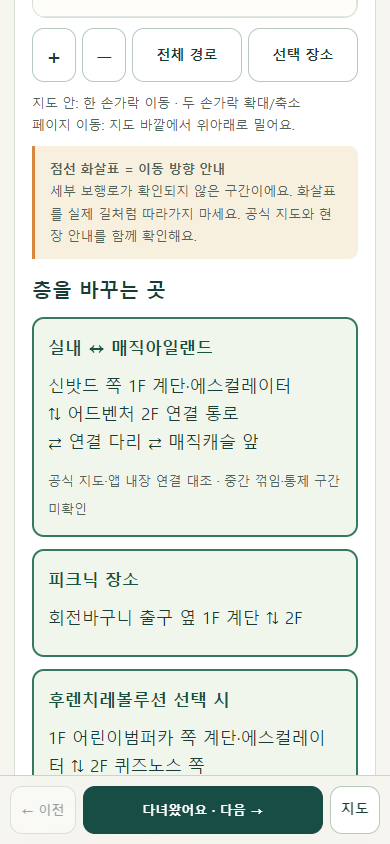
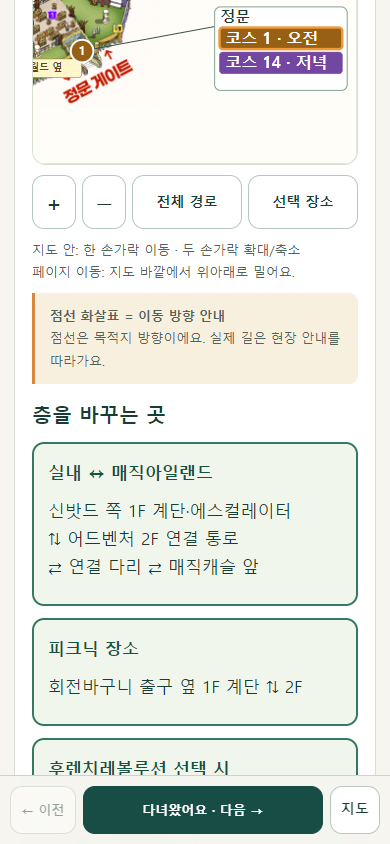
Add fullscreen map with close button and simplify visitor guidance

diff --git a/index.html b/index.html
@@ -8,7 +8,7 @@
 <section class="current panel" aria-label="현재 단계"><div class="section-top"><h2>지금 여기!</h2><span id="progress"></span></div><div id="current"></div><div class="next" id="next"></div><a class="button primary" href="#map" id="show-current">현재 단계 지도 보기 ↗</a></section>
 <p class="small notice">10시 개장을 가정한 <strong>권장 시간대</strong>예요. 예약 시간이 아니에요. 정문(B1) 출발을 가정했어요. 다른 입구라면 직원에게 첫 목적지를 물어봐요.</p>
 <section id="map" class="panel"><div class="section-top"><h2>우리의 코스 지도</h2><span class="tag">공식 지도 기반</span></div><p><strong>첨부 가이드맵 위에서 따라가기</strong></p><p class="small">배경은 공식 가이드맵이에요. 큰 색상 원과 ‘코스’ 버튼은 우리 번호예요. 원본의 작은 시설 번호와 달라요. 확대해서 확인해요.</p><div class="filters" id="periods" aria-label="시간대 선택"></div><label for="floor">구역 / 층 선택</label><select id="floor"><option value="all">전체 코스</option><option value="B1">실내 B1 · 정문</option><option value="1F">실내 1F</option><option value="2F">실내 2F</option><option value="3F">실내 3F</option><option value="4F">실내 4F</option><option value="M">실외 · 매직아일랜드</option></select>
-<div class="legend"><span class="morning">● 오전</span><span class="afternoon">● 오후</span><span class="evening">● 저녁</span></div><div id="map-route" class="notice small" aria-live="polite"></div><div class="map-wrap" id="map-wrap"><svg id="route-map" role="group" aria-label="코스 번호를 눌러 장소를 확인하는 안내도" viewBox="0 0 640 840"></svg></div><div class="map-controls"><button id="zoom-in" aria-label="지도 확대">＋</button><button id="zoom-out" aria-label="지도 축소">−</button><button id="fit">전체 경로</button><button id="focus">선택 장소</button></div><p class="small">지도 안: 한 손가락 이동 · 두 손가락 확대/축소<br>페이지 이동: 지도 바깥에서 위아래로 밀어요.</p><div class="notice small"><strong>점선 화살표 = 이동 방향 안내</strong><br>세부 보행로가 확인되지 않은 구간이에요. 화살표를 실제 길처럼 따라가지 마세요. 공식 지도와 현장 안내를 함께 확인해요.</div><h3>층을 바꾸는 곳</h3><div class="transfer"><strong>실내 ↔ 매직아일랜드</strong><p>신밧드 쪽 1F 계단·에스컬레이터<br>⇅ 어드벤처 2F 연결 통로<br>⇄ 연결 다리 ⇄ 매직캐슬 앞</p><span class="small">공식 지도·앱 내장 연결 대조 · 중간 꺾임·통제 구간 미확인</span></div><div class="transfer"><strong>피크닉 장소</strong><p>회전바구니 출구 옆 1F 계단 ⇅ 2F</p></div><div class="transfer"><strong>후렌치레볼루션 선택 시</strong><p>1F 어린이범퍼카 쪽 계단·에스컬레이터 ⇅ 2F 퀴즈노스 쪽</p><span class="small">앱 내장 연결 + 최신 지도 대조. 진입길·현재 통행은 직원에게 확인해요.</span></div><h3>동선 근처 화장실</h3><p class="small">WC · B1 정문 근처 잇츠월드 옆<br>WC · 1F 회전바구니·피크닉 계단 근처<br>WC · 1F 만남의 광장 안쪽</p><p class="small">시설 위치는 공식 지도 아이콘 확인. 개방 상태는 현장에서 확인해요.</p><div id="map-detail" aria-live="polite"></div><p class="small">경로 덧그림은 축척 없는 동선 안내도이며 길의 꺾임을 재현하지 않아요. 시설 대표 위치와 실제 입구는 다를 수 있어요.</p><a class="button" id="official-map" target="_blank" rel="noopener">공식 가이드맵 열기 ↗</a></section>
+<div class="legend"><span class="morning">● 오전</span><span class="afternoon">● 오후</span><span class="evening">● 저녁</span></div><div id="map-route" class="notice small" aria-live="polite"></div><div class="map-wrap" id="map-wrap"><svg id="route-map" role="group" aria-label="코스 번호를 눌러 장소를 확인하는 안내도" viewBox="0 0 640 840"></svg></div><div class="map-controls"><button id="zoom-in" aria-label="지도 확대">＋</button><button id="zoom-out" aria-label="지도 축소">−</button><button id="fit">전체 경로</button><button id="focus">선택 장소</button></div><p class="small">지도 안: 한 손가락 이동 · 두 손가락 확대/축소<br>페이지 이동: 지도 바깥에서 위아래로 밀어요.</p><div class="notice small"><strong>점선 화살표 = 이동 방향 안내</strong><br>점선은 목적지 방향이에요. 실제 길은 현장 안내를 따라가요.</div><h3>층을 바꾸는 곳</h3><div class="transfer"><strong>실내 ↔ 매직아일랜드</strong><p>신밧드 쪽 1F 계단·에스컬레이터<br>⇅ 어드벤처 2F 연결 통로<br>⇄ 연결 다리 ⇄ 매직캐슬 앞</p></div><div class="transfer"><strong>피크닉 장소</strong><p>회전바구니 출구 옆 1F 계단 ⇅ 2F</p></div><div class="transfer"><strong>후렌치레볼루션 선택 시</strong><p>1F 어린이범퍼카 쪽 계단·에스컬레이터 ⇅ 2F 퀴즈노스 쪽</p></div><h3>동선 근처 화장실</h3><p class="small">WC · B1 정문 근처 잇츠월드 옆<br>WC · 1F 회전바구니·피크닉 계단 근처<br>WC · 1F 만남의 광장 안쪽</p><div id="map-detail" aria-live="polite"></div><p class="small">축척 없는 동선 안내도 · 핀은 시설 위치예요.</p><a class="button" id="official-map" target="_blank" rel="noopener">공식 가이드맵 열기 ↗</a></section>
 <section id="schedule"><div class="section-top"><h2>하루를 한 걸음씩</h2><span class="tag">큰 번호 순서로</span></div><p class="small">필수는 밥·휴식·함께 귀가! 놀이기구는 모두 선택이에요. 인기 기구는 한 개만 타도 좋아요.</p><div class="panel alternatives"><h3>상황에 맞게 바꾸기</h3><label class="check"><input id="indoor" type="checkbox"> 비·추위 → 실내 코스로 바꾸기</label><p class="small">야외 일정이 실내 사진·휴식으로 바뀌고 지도와 다음 이동도 함께 바뀌어요.</p><p>대기 60분 이상 → 해당 카드에서 사진·휴식을 선택해요.</p><p>무서운 기구가 어렵다면 → 함께 쉬거나 순한 대안을 골라요. 혼자 남지 않아요.</p></div><div id="cards"></div></section>
 <section id="ready" class="panel"><h2>출발 전 체크</h2><div class="packing"><label><input type="checkbox"> 작은 가방</label><label><input type="checkbox"> 물</label><label><input type="checkbox"> 보조배터리</label><label><input type="checkbox"> 편한 운동화</label><label><input type="checkbox"> 겉옷</label></div><h3>우리 넷의 약속</h3><p>이동 전에는 네 명 모두 있는지 확인해요. 길이 헷갈리면 멈추고 직원에게 물어봐요.</p><p id="meeting"></p><p>흩어지면 혼자 찾으러 다니지 말고 가까운 직원에게 도움을 요청해요.</p><h3>당일 꼭 확인</h3><div id="official-links" class="link-list"></div><p class="small">키·나이·건강 상태 등 모든 탑승 조건은 공식 상세 안내와 현장 직원에게 확인해요. 이 사이트에는 실시간 대기시간이 없어요.</p><h3>저장과 오프라인</h3><p class="small">현재 단계·완료·코스 선택은 이 기기에 저장돼요. 친구들과 자동 동기화되지 않아요. 개인정보는 입력하거나 전송하지 않아요.</p><p id="offline-status" class="small" role="status">오프라인 준비 중…</p><p class="small">최신 운영시간·운휴·공연은 온라인 공식 사이트에서 확인해야 해요.</p><button id="reset">처음부터 다시 보기</button><div id="reset-confirm" hidden><p>완료 표시와 선택 코스를 모두 지울까요?</p><button id="reset-yes">네, 초기화</button> <button id="reset-no">취소</button></div></section>
 <footer><strong>즐거운 하루, 함께 돌아오기.</strong><p>공식 자료 확인: 2026.10.27<br>지도 © 롯데월드 · 제공받은 재게시 허가에 따라 사용.</p><a href="./research.md">지도 출처·확인 범위</a> · <a href="https://github.com/leegunsoodev/lotteworld-day-guide">GitHub</a></footer></main><nav class="bottom" aria-label="단계 이동"><button id="prev">← 이전</button><button id="next-step" class="primary">다녀왔어요 · 다음 →</button><a href="#map">지도</a></nav><div id="toast" role="status" aria-live="polite"></div></body></html>

diff --git a/app.js b/app.js
@@ -1,3 +1,4 @@
+import {setupMapFullscreen} from './fullscreen.js';
 import {initialState,restore,advance,previous,choose} from './state.js';
 import {steps,places,resolve,directions,links} from './data.js';
 import {RouteMap} from './map.js';
@@ -10,7 +11,7 @@ const escape=s=>String(s).replace(/[&<>"']/g,c=>({'&':'&amp;','<':'&lt;','>':'&g
 function save(){try{localStorage.setItem(KEY,JSON.stringify(state));}catch{toast('저장 공간을 사용할 수 없어요. 이 화면에서만 유지돼요.');}}
 function toast(t){$('toast').textContent=t;clearTimeout(toast.timer);toast.timer=setTimeout(()=>$('toast').textContent='',3500);}
 function title(s,i){return `<div class="step-title"><span class="num">${i+1}</span><div><h3>${escape(s.place.name)}</h3><div class="meta">${label(s.period)} · ${s.place.floor==='M'?'실외 · 매직아일랜드':`실내 · ${s.place.floor}`} · ${s.required?'필수 일정':'선택 코스'}</div></div></div>`;}
-function details(s){return `<p>${escape(s.place.note)}</p>${s.place.limit?`<p class="small">공식 지도 키 기준: ${s.place.limit}. 그 외 탑승 제한도 <a href="${links.rides}" target="_blank" rel="noopener">공식 상세</a>와 현장에서 확인해요.</p>`:''}${s.id==='parade'?`<div class="notice"><strong>관람 전 집결: 1F 가든스테이지 주변</strong><p>가든스테이지는 위치 확인용 랜드마크예요. 확정 관람석이 아니에요. 직원이 안내하는 관람선 밖에서 기다려요.</p><p class="small">확인된 공연 구역: 어드벤처 1F 퍼레이드 코스. 세부 진행 방향과 관람 자리는 미확인. 방문 당일 재확인!</p><a href="${links.shows}" target="_blank" rel="noopener">오늘 공연 시간 확인 ↗</a><p class="small">2026.10.27 확인: <a href="https://adventure.lotteworld.com/enjoy/performance/detail?srchPlySeq=1328" target="_blank" rel="noopener">월드 오브 라이트</a> 게시 기간 2026.08.31~11.15. 방문일의 공연명·시간은 달라질 수 있어요.</p></div>`:''}`;}
+function details(s){return `<p>${escape(s.place.note)}</p>${s.place.limit?`<p class="small">공식 지도 키 기준: ${s.place.limit}. 그 외 탑승 제한도 <a href="${links.rides}" target="_blank" rel="noopener">공식 상세</a>와 현장에서 확인해요.</p>`:''}${s.id==='parade'?`<div class="notice"><strong>관람 전 집결: 1F 가든스테이지 주변</strong><p>가든스테이지는 위치 확인용 랜드마크예요. 확정 관람석이 아니에요. 직원이 안내하는 관람선 밖에서 기다려요.</p><p class="small">어드벤처 1F에서 관람해요. 오늘 관람 자리는 직원에게 물어봐요.</p><a href="${links.shows}" target="_blank" rel="noopener">오늘 공연 시간 확인 ↗</a></div>`:''}`;}
 function render(){const list=resolve(state),s=list[state.current];$('progress').textContent=`${state.done.length}/${steps.length} 완료`;$('current').innerHTML=title(s,state.current)+`<p class="meta">${s.time}</p>`;$('next').innerHTML=`<strong>다음에 갈 곳 · ${list[state.current+1]?.place.name||'함께 귀가 완료'}</strong><p class="small">${directions(s.place,list[state.current+1]?.place)}</p>`;
  $('cards').innerHTML=list.map((s,i)=>`<article class="panel route-card ${s.period}-card ${i===selected?'selected':''}" id="step-${i+1}"><button class="card-select" data-select="${i}" aria-label="코스 ${i+1} ${s.place.name} 지도에서 보기">${title(s,i)}<p class="meta">${s.time}</p></button>${state.done.includes(i)?'<p class="done">✓ 다녀왔어요</p>':''}${details(s)}${s.options.length>1?`<label class="choice" for="choice-${i}">${i===10?'취소·미운영이면 대체하기':'대기·취향에 맞춰 고르기'}</label><select id="choice-${i}" data-choice="${i}" ${state.indoor&&s.indoor?'disabled':''}>${(state.indoor&&s.indoor?[s.indoor]:s.options).map(id=>`<option value="${id}" ${s.id===id?'selected':''}>${places[id].name}${['meeting','castle'].includes(id)?' · 사진/휴식':''}</option>`).join('')}</select>`:''}<p class="small"><strong>다음 이동 →</strong> ${directions(s.place,list[i+1]?.place)}</p><button data-current="${i}">${state.current===i?'지금 단계예요':'여기를 현재 단계로'}</button></article>`).join('');
  $('cards').querySelectorAll('[data-select]').forEach(b=>b.onclick=()=>select(+b.dataset.select,true));$('cards').querySelectorAll('[data-current]').forEach(b=>b.onclick=()=>{state.current=+b.dataset.current;selected=state.current;floor=resolve(state)[selected].place.floor;save();render();$('current').scrollIntoView({block:'center'});});$('cards').querySelectorAll('[data-choice]').forEach(c=>c.onchange=()=>{const i=+c.dataset.choice;state=choose(state,i,c.value);selected=i;period='all';floor=resolve(state)[i].place.floor;save();render();toast('선택 코스와 다음 이동을 바꿨어요.');});
@@ -25,5 +26,6 @@ $('reset').onclick=()=>$('reset-confirm').hidden=false;$('reset-no').onclick=()=
 $('official-map').href=links.map;$('meeting').textContent='추천 만남 장소: 어드벤처 1F 만남의 광장. 보호자가 입장하는 경우에 적합해요. 미입장 보호자는 정문 바깥 지점을 따로 정해요. 보호자와 정확한 위치·시간을 미리 정하고, 당일 통제 시 대체 만남 장소도 합의해요.';
 $('official-links').innerHTML=[[links.map,'공식 가이드맵'],[links.hours,'운영시간 · 당일 확인'],[links.closed,'운휴 시설 · 당일 확인'],[links.shows,'공연 일정 · 야간 퍼레이드 확인'],[links.rides,'놀이기구 · 탑승 제한']].map(([url,name])=>`<a href="${url}" target="_blank" rel="noopener">${name} ↗</a>`).join('');
 render();
+setupMapFullscreen(()=>{const v=map.view;const cy=v.y+v.h/2;v.h=v.w*map.svg.clientHeight/Math.max(1,map.svg.clientWidth);v.y=cy-v.h/2;map.apply();});
 const hash=location.hash.match(/^#step-(\d+)$/);if(hash){const i=+hash[1]-1;if(i>=0&&i<steps.length){selected=i;render();requestAnimationFrame(()=>$(`step-${i+1}`).scrollIntoView());}}
 if('serviceWorker' in navigator){navigator.serviceWorker.register('./sw.js').then(()=>navigator.serviceWorker.ready).then(()=>{$('offline-status').textContent='일정·안내도 오프라인 준비 완료. 이 주소를 다시 열어 볼 수 있어요. 브라우저 저장소가 삭제되면 재접속이 필요해요.';}).catch(()=>$('offline-status').textContent='이 브라우저에서는 오프라인 저장을 하지 못했어요. 온라인으로 이용해요.');}else $('offline-status').textContent='이 브라우저에서는 오프라인 저장을 지원하지 않아요.';

diff --git a/map.js b/map.js
@@ -10,7 +10,7 @@ export class RouteMap {
  this.svg.replaceChildren();this.points.clear();const defs=this.el('defs',{},this.svg);const marker=this.el('marker',{id:'arrow',viewBox:'0 0 10 10',refX:9,refY:5,markerWidth:6,markerHeight:6,orient:'auto'},defs);this.el('path',{d:'M 0 0 L 10 5 L 0 10 z',fill:'#d56828'},marker);
  const shown=stops.map((s,i)=>({...s,index:i})).filter(s=>(period==='all'||s.period===period)&&(floor==='all'||s.place.floor===floor));
  const selectedLayers=floor==='all'?['B1','1F','2F','M'].filter(f=>shown.some(s=>s.place.floor===f)):[floor];let offset=0;const offsets={};
- for(const f of selectedLayers){const l=layers[f];offsets[f]=offset;this.el('rect',{x:0,y:offset,width:1600,height:l.h+230,rx:24,fill:'#fffdf7',stroke:'#d5dfd1','stroke-width':3},this.svg);this.el('text',{x:30,y:offset+45,'font-size':30,'font-weight':800,fill:'#174d45'},this.svg,l.title);this.el('text',{x:30,y:offset+80,'font-size':20,fill:'#526459'},this.svg,'공식 지도 위 코스 표시 · 핀은 대표 위치 · 실제 입구는 현장 확인');this.el('image',{href:`./maps/${f}.webp`,x:300,y:offset+110,width:l.w,height:l.h},this.svg);
+ for(const f of selectedLayers){const l=layers[f];offsets[f]=offset;this.el('rect',{x:0,y:offset,width:1600,height:l.h+230,rx:24,fill:'#fffdf7',stroke:'#d5dfd1','stroke-width':3},this.svg);this.el('text',{x:30,y:offset+45,'font-size':30,'font-weight':800,fill:'#174d45'},this.svg,l.title);this.el('text',{x:30,y:offset+80,'font-size':20,fill:'#526459'},this.svg,'큰 코스 번호를 눌러요 · 점선은 목적지 방향이에요');this.el('image',{href:`./maps/${f}.webp`,x:300,y:offset+110,width:l.w,height:l.h},this.svg);
  const callout=(x,y,t)=>{this.el('rect',{x:x-8,y:offset+y-24,width:t.length*17+20,height:38,rx:7,fill:'#fff7cb',stroke:'#9b721e'},this.svg);this.el('text',{x,y:offset+y,'font-size':20,'font-weight':800,fill:'#624710'},this.svg,t);};
  if(f==='1F'){callout(310,160,'1F ↔ 2F · 매직아일랜드 연결');this.el('path',{d:`M 460 ${offset+172} L 395 ${offset+450}`,stroke:'#ac791b','stroke-width':4,'stroke-dasharray':'8 6',fill:'none'},this.svg);callout(800,815,'회전바구니 옆 계단 ↔ 피크닉 2F');callout(840,335,'WC · 만남의 광장 안쪽');callout(700,780,'WC');}
  if(f==='2F')callout(340,510,'퀴즈노스 쪽 계단·에스컬레이터 ↔ 1F 어린이범퍼카 쪽');if(f==='M')callout(970,800,'연결 다리 ↔ 실내 2F');if(f==='B1')callout(840,690,'WC · 잇츠월드 옆');offset+=l.h+260;}
@@ -24,7 +24,7 @@ export class RouteMap {
  else if(active)this.el('text',{x:30,y:offsets[q.floor]+layers[q.floor].h+205,'font-size':23,'font-weight':800,fill:'#a44817'},this.svg,`코스 ${prev.index+1} ${p.floor} → 코스 ${s.index+1} ${q.floor} · 층 이동 방법은 아래 카드 확인`);
  });
  for(const group of groups.values()){const first=group[0],p=this.points.get(first.index),ly=p.labelY,lh=70+group.length*50+(first.id==='parade'?26:0);this.el('path',{d:`M ${p.x} ${p.y} L ${p.labelX+(p.labelX<300?270:0)} ${ly+40}`,stroke:'#354f45','stroke-width':2,fill:'none'},this.svg);this.el('rect',{x:p.labelX,y:ly,width:270,height:lh,rx:12,fill:'#fff',stroke:'#839f8f','stroke-width':2},this.svg);
- this.el('text',{x:p.labelX+12,y:ly+30,'font-size':30,'font-weight':800,fill:'#163f36'},this.svg,first.id==='parade'?'가든스테이지 주변':first.place.name.split(' · ')[0]);if(first.id==='parade')this.el('text',{x:p.labelX+12,y:ly+53,'font-size':17,fill:'#715a32'},this.svg,'집결 후보 · 관람석 미확정');
+ this.el('text',{x:p.labelX+12,y:ly+30,'font-size':30,'font-weight':800,fill:'#163f36'},this.svg,first.id==='parade'?'가든스테이지 주변':first.place.name.split(' · ')[0]);if(first.id==='parade')this.el('text',{x:p.labelX+12,y:ly+53,'font-size':17,fill:'#715a32'},this.svg,'여기서 관람 위치를 물어봐요');
  group.forEach((s,j)=>{const cy=ly+70+j*50+(first.id==='parade'?26:0);const g=this.el('g',{class:`map-node ${s.index===selected?'selected-node':''}`,role:'button',tabindex:0,'aria-label':`코스 ${s.index+1} ${s.place.name}`,'data-step':s.index},this.svg);this.el('rect',{x:p.labelX+10,y:cy-28,width:250,height:44,rx:7,fill:colors[s.period],stroke:s.index===selected?'#ef963d':colors[s.period]},g);this.el('text',{x:p.labelX+22,y:cy+5,'font-size':32,'font-weight':800,fill:'#fff'},g,`코스 ${s.index+1} · ${s.period==='morning'?'오전':s.period==='afternoon'?'오후':'저녁'}`);g.addEventListener('keydown',e=>{if(e.key==='Enter'||e.key===' '){e.preventDefault();this.onSelect(s.index);}});});
  const active=group.find(s=>s.index===selected)||first;const pin=this.el('g',{'data-step':active.index,class:'map-node'},this.svg);this.el('circle',{cx:p.x,cy:p.y,r:23,fill:colors[active.period],stroke:'#fff','stroke-width':4},pin);this.el('text',{x:p.x,y:p.y+8,'text-anchor':'middle',fill:'#fff','font-size':25,'font-weight':800},pin,String(active.index+1));}
  if(!shown.length)this.el('text',{x:40,y:150,'font-size':25,fill:'#183d37'},this.svg,'이 층·시간대에는 예정된 코스가 없어요.');this.fit();

diff --git a/data.js b/data.js
@@ -11,7 +11,7 @@ export const places={
  sinbad:{name:'신밧드의 모험',floor:'1F',note:'어두운 장면이 있어요. 친구 모두 괜찮은지 먼저 물어봐요.',limit:'혼자 탑승 110cm 이상'},
  pirate:{name:'스페인해적선',floor:'1F',note:'신밧드와 같은 1층 구역. 무서우면 사진·휴식으로 바꿔요.',limit:'혼자 탑승 110cm 이상'},
  flume:{name:'후룸라이드',floor:'1F',note:'물이 튈 수 있어요. 젖기 싫으면 다른 선택을 골라요.',limit:'혼자 탑승 110cm 이상'},
- french:{name:'후렌치레볼루션',floor:'2F',note:'선택하면 2층 왕복이 생겨요. 1F 어린이범퍼카 쪽 ↔ 2F 퀴즈노스 쪽 계단·에스컬레이터 연결을 앱 내장 지도와 대조했어요. 정확한 진입은 직원에게 확인해요.',limit:'120cm 이상'},
+ french:{name:'후렌치레볼루션',floor:'2F',note:'선택하면 2층 왕복이 생겨요. 1F 어린이범퍼카 쪽 계단·에스컬레이터로 2F 퀴즈노스 쪽에 올라가요.',limit:'120cm 이상'},
  twosome:{name:'투썸플레이스 · 쉬기',floor:'1F',note:'카페 아리아나(투썸플레이스), 팝콘팩토리 옆이에요. 자리와 영업을 확인해요. 충전은 보조배터리로! 콘센트 이용은 확인되지 않았어요.'},
  picnic:{name:'피크닉 장소 · 쉬기',floor:'2F',note:'공식 지도에 회전바구니 옆에서 2층으로 이동하는 지점이 표시돼 있어요. 개방 여부는 현장에서 확인해요.'},
  meeting:{name:'만남의 광장 · 사진',floor:'1F',note:'공식 지도에 표시된 1층 만남의 광장. 함께 사진을 찍거나 잠깐 쉬어요. 통행로는 비워요.'},
@@ -38,8 +38,8 @@ export const steps=[
 ];
 export function resolve(s){return steps.map((step,i)=>{const id=s.indoor&&step.indoor?step.indoor:step.options.includes(s.choices[i])?s.choices[i]:step.options[0];return {...step,id,place:places[id]};});}
 export function directions(a,b){
- if(b?.name==='후렌치레볼루션')return '1F 어린이범퍼카 쪽 층 이동 지점 → 2F 퀴즈노스 쪽 → 후렌치레볼루션. 계단·에스컬레이터 연결은 앱 내장 지도 대조. 현재 이용 가능한 진입길은 직원에게 확인해요.';
- if(a.name==='후렌치레볼루션'&&b?.floor==='1F')return `2F 퀴즈노스 쪽 계단·에스컬레이터 → 1F 어린이범퍼카 쪽 → ${b.name}. 연결 관계는 앱 내장 지도 대조. 현장 통행 안내를 따라요.`;
+ if(b?.name==='후렌치레볼루션')return '1F 어린이범퍼카 쪽 층 이동 지점 → 2F 퀴즈노스 쪽 → 후렌치레볼루션. 계단·에스컬레이터를 이용해요.';
+ if(a.name==='후렌치레볼루션'&&b?.floor==='1F')return `2F 퀴즈노스 쪽 계단·에스컬레이터 → 1F 어린이범퍼카 쪽 → ${b.name}. 현장 안내를 따라가요.`;
  if(b?.name==='야간 퍼레이드')return `${a.floor==='M'?'매직캐슬 앞 → 연결 다리 → 어드벤처 2F → 신밧드 쪽 계단·에스컬레이터 → 1F. ':a.floor!=='1F'?a.floor+'에서 1F 이동 지점을 직원에게 확인해요. ':''}1F 가든스테이지 주변에서 직원에게 오늘 퍼레이드 관람 구역을 물어봐요. 지도 핀은 집결 랜드마크이며 관람석이 아니에요.`;
  if(a.name==='야간 퍼레이드')return `공연 후 통행이 풀리면 1F 가든스테이지 주변 → ${b?.name||'만남 장소'}. 통제선과 직원 안내를 따르고, 최종적으로 만남의 광장에서 모여 B1 정문 방향 출구로 함께 가요. 정확한 1F→B1 승강 지점은 직원에게 확인해요.`;
  if(!b)return '오늘 코스 끝! 네 명 모두 함께 귀가해요.';
@@ -47,7 +47,7 @@ export function directions(a,b){
  if(a.floor!=='M'&&b.floor==='M')return `${a.floor} → 어드벤처 2F → 연결 다리 → 매직캐슬 앞. 1F 신밧드 쪽에 매직아일랜드행 계단·에스컬레이터가 표시돼 있어요. ${a.floor==='B1'?'정문에서 1F로 가는 정확한 승강 지점은 직원에게 확인해요. ':''}${b.name} 입구는 공식 지도에서 확인해요.`;
  if(b.name.includes('피크닉'))return `${a.floor} → 1F 회전바구니 옆 → 2F 피크닉 장소. 지도에 표시된 층 이동 지점을 현장에서 확인해요.`;
  if(a.name.includes('피크닉'))return `피크닉 장소 2F → 회전바구니 쪽 1F 연결 지점 → ${b.name}. 현장 안내를 따라요.`;
- if(a.floor!==b.floor)return `${a.floor} → ${b.floor} · ${b.name}. 이 구간의 정확한 계단·에스컬레이터 위치는 미확인입니다. 공식 지도 또는 직원에게 이동 지점을 확인한 뒤 가요.`;
+ if(a.floor!==b.floor)return `${a.floor} → ${b.floor} · ${b.name}. 계단·에스컬레이터 위치가 헷갈리면 직원에게 물어봐요.`;
  if(a.name===b.name)return `같은 장소예요. ${b.name}에서 다음 활동을 해요.`;
  return `${a.floor}에서 ${b.name}로 이동해요. 점선은 이동 방향 안내예요. 실제 보행로·입구는 공식 지도와 현장 안내를 확인해요.`;
 }

diff --git a/fullscreen.js b/fullscreen.js
@@ -1,0 +1,17 @@
+// 같은 지도 DOM을 옮겨 확대 상태·이벤트·층 선택을 중복 없이 유지한다.
+export function setupMapFullscreen(onResize){
+ const section=document.getElementById('map');
+ const open=document.createElement('button');open.id='open-map-fullscreen';open.className='button primary';open.textContent='⛶ 지도 전체 화면 보기';open.setAttribute('aria-haspopup','dialog');
+ section.querySelector('.section-top').after(open);
+ const dialog=document.createElement('dialog');dialog.id='map-fullscreen';dialog.setAttribute('aria-labelledby','map-fullscreen-title');
+ dialog.innerHTML='<div class="fullscreen-header"><h2 id="map-fullscreen-title">코스 지도</h2><button id="close-map-fullscreen" autofocus>✕ 닫기</button></div><div class="fullscreen-map-body"></div>';
+ document.body.append(dialog);
+ const host=dialog.querySelector('.fullscreen-map-body');
+ const nodes=['#periods','label[for="floor"]','#floor','.legend','#map-route','#map-wrap','.map-controls'].map(q=>section.querySelector(q));
+ const slots=nodes.map(n=>{const marker=document.createComment('map-home');n.before(marker);return marker;});
+ let scrollY=0,bodyStyle='';
+ open.onclick=()=>{scrollY=window.scrollY;bodyStyle=document.body.style.cssText;nodes.forEach(n=>host.append(n));dialog.showModal();document.body.style.position='fixed';document.body.style.top=`-${scrollY}px`;document.body.style.width='100%';requestAnimationFrame(onResize);};
+ dialog.querySelector('button').onclick=()=>dialog.close();
+ dialog.addEventListener('close',()=>{nodes.forEach((n,i)=>slots[i].after(n));document.body.style.cssText=bodyStyle;window.scrollTo({top:scrollY,behavior:'instant'});open.focus({preventScroll:true});requestAnimationFrame(onResize);});
+ window.addEventListener('resize',()=>{if(dialog.open)requestAnimationFrame(onResize);});
+}

diff --git a/style.css b/style.css
@@ -3,3 +3,6 @@
 .transfer{border:2px solid #367962;background:#f0f6eb;border-radius:12px;padding:14px;margin:12px 0}.transfer strong{color:#175343}
 
 svg .route-edge{stroke:#d47732;stroke-width:7;stroke-dasharray:13 10}svg .active-edge{stroke:#cc5418;stroke-width:10}svg .selected-node rect{stroke:#ed9a38;stroke-width:5}
+
+#map-fullscreen{position:fixed;inset:0;margin:0;width:100%;max-width:none;height:100vh;height:100dvh;max-height:none;border:0;border-radius:0;padding:12px;background:#f6f5ef;color:#183d37;overflow:hidden;padding-top:max(12px,env(safe-area-inset-top));padding-bottom:max(12px,env(safe-area-inset-bottom))}
+#map-fullscreen[open]{display:flex;flex-direction:column}#map-fullscreen::backdrop{background:#183d37b0}.fullscreen-header{display:flex;align-items:center;justify-content:space-between;gap:12px;flex-shrink:0}.fullscreen-header h2{margin:0;font-size:21px}.fullscreen-header button{min-width:90px}.fullscreen-map-body{display:flex;flex:1;min-height:0;flex-direction:column}.fullscreen-map-body .filters{margin:6px 0}.fullscreen-map-body label,.fullscreen-map-body .legend{display:none}.fullscreen-map-body select{margin:0;flex-shrink:0}.fullscreen-map-body #map-route{margin:6px 0;padding:5px 9px;font-size:12px;display:-webkit-box;-webkit-line-clamp:2;-webkit-box-orient:vertical;overflow:hidden;flex-shrink:0}.fullscreen-map-body .map-wrap{height:auto!important;flex:1;min-height:80px;border-radius:10px}.fullscreen-map-body .map-controls{flex-shrink:0;margin:6px 0 0}.fullscreen-map-body .map-controls button{min-height:48px}@media(max-height:500px){.fullscreen-map-body .filters,.fullscreen-map-body #map-route{display:none}.fullscreen-header button{min-height:44px}.fullscreen-map-body select{min-height:44px}}

diff --git a/sw.js b/sw.js
@@ -1,5 +1,5 @@
-const CACHE='lotte-day-v3';
-const ASSETS=['./','./index.html','./style.css','./app.js','./data.js','./state.js','./map.js','./icon.svg','./og.png','./research.md','./maps/B1.webp','./maps/1F.webp','./maps/2F.webp','./maps/3F.webp','./maps/4F.webp','./maps/M.webp'];
+const CACHE='lotte-day-v4';
+const ASSETS=['./','./index.html','./style.css','./app.js','./fullscreen.js','./data.js','./state.js','./map.js','./icon.svg','./og.png','./research.md','./maps/B1.webp','./maps/1F.webp','./maps/2F.webp','./maps/3F.webp','./maps/4F.webp','./maps/M.webp'];
 self.addEventListener('install',event=>event.waitUntil(caches.open(CACHE).then(c=>c.addAll(ASSETS)).then(()=>self.skipWaiting())));
 self.addEventListener('activate',event=>event.waitUntil(caches.keys().then(keys=>Promise.all(keys.filter(k=>k.startsWith('lotte-day-')&&k!==CACHE).map(k=>caches.delete(k)))).then(()=>self.clients.claim())));
 self.addEventListener('fetch',event=>{if(event.request.method!=='GET'||new URL(event.request.url).origin!==self.location.origin)return;event.respondWith(fetch(event.request).then(r=>r).catch(()=>caches.match(event.request).then(r=>r||(event.request.mode==='navigate'?caches.match('./index.html'):Response.error()))));});

diff --git a/research.md b/research.md
@@ -98,3 +98,6 @@ REA 정적 분석에서 제공 파일은 롯데월드 앱이 아닌 Uptodown 7.4
 - 후렌치 주변 2F17/38·18 ↔ 1F532/1382·533. 1F 어린이범퍼카/매드포갈릭 구역과 2F 퀴즈노스/앤티앤스 구역의 계단·에스컬레이터가 대응. 이 랜드마크 관계를 카드·층 이동 안내에 적용했다.
 - 정문 자체의 POI가 없어 B1 어느 승강 지점을 입장 후 이용하는지는 확정하지 않았다. B1 픽시매직 부근→1F 배틀그라운드/사진상점 연결 후보는 있지만 강제 경로로 지정하지 않았다.
 - 앱에 구식 명칭도 있다. 영업·명칭·층 도착 정보는 최신 PDF/API 우선. 앱 좌표와 PDF 픽셀은 다른 좌표계이며 일치 변환을 검증하지 않았으므로 실제 보행선처럼 실선으로 옮기지 않았다. 거리 단위/이동시간/상행·하행 규칙은 추정하지 않았다.
+
+## 전체 화면 지도 UI
+기존 SVG 지도와 제어 버튼을 dialog로 이동해 동일 인스턴스·층 선택을 유지한다. 브라우저 Fullscreen API 대신 화면을 채우는 모달을 사용한다. 닫기/ESC로 원래 위치와 포커스 복원. 조사·앱 분석 설명은 사용자 화면에서 제거하고 연구 기록에 보관한다.

diff --git a/plan.md b/plan.md
@@ -12,3 +12,6 @@
 - [x] 모바일 320/390/768 검증, 실제 배포 및 재검증
 
 검증: 브라우저에서 카드·번호 연동, 이전/다음, 대안, 새로고침, offline reload, overflow, 포인터 제스처 확인. 카카오톡 앱 실기기 검증은 별도 증거 없으면 미검증으로 보고한다.
+
+- [x] 전체 화면 지도 열기/닫기, 동일 지도 재사용, 스크롤 잠금과 복원 구현
+- [x] 사용자 화면의 불필요한 조사·검증 설명 제거 (기록은 유지)
